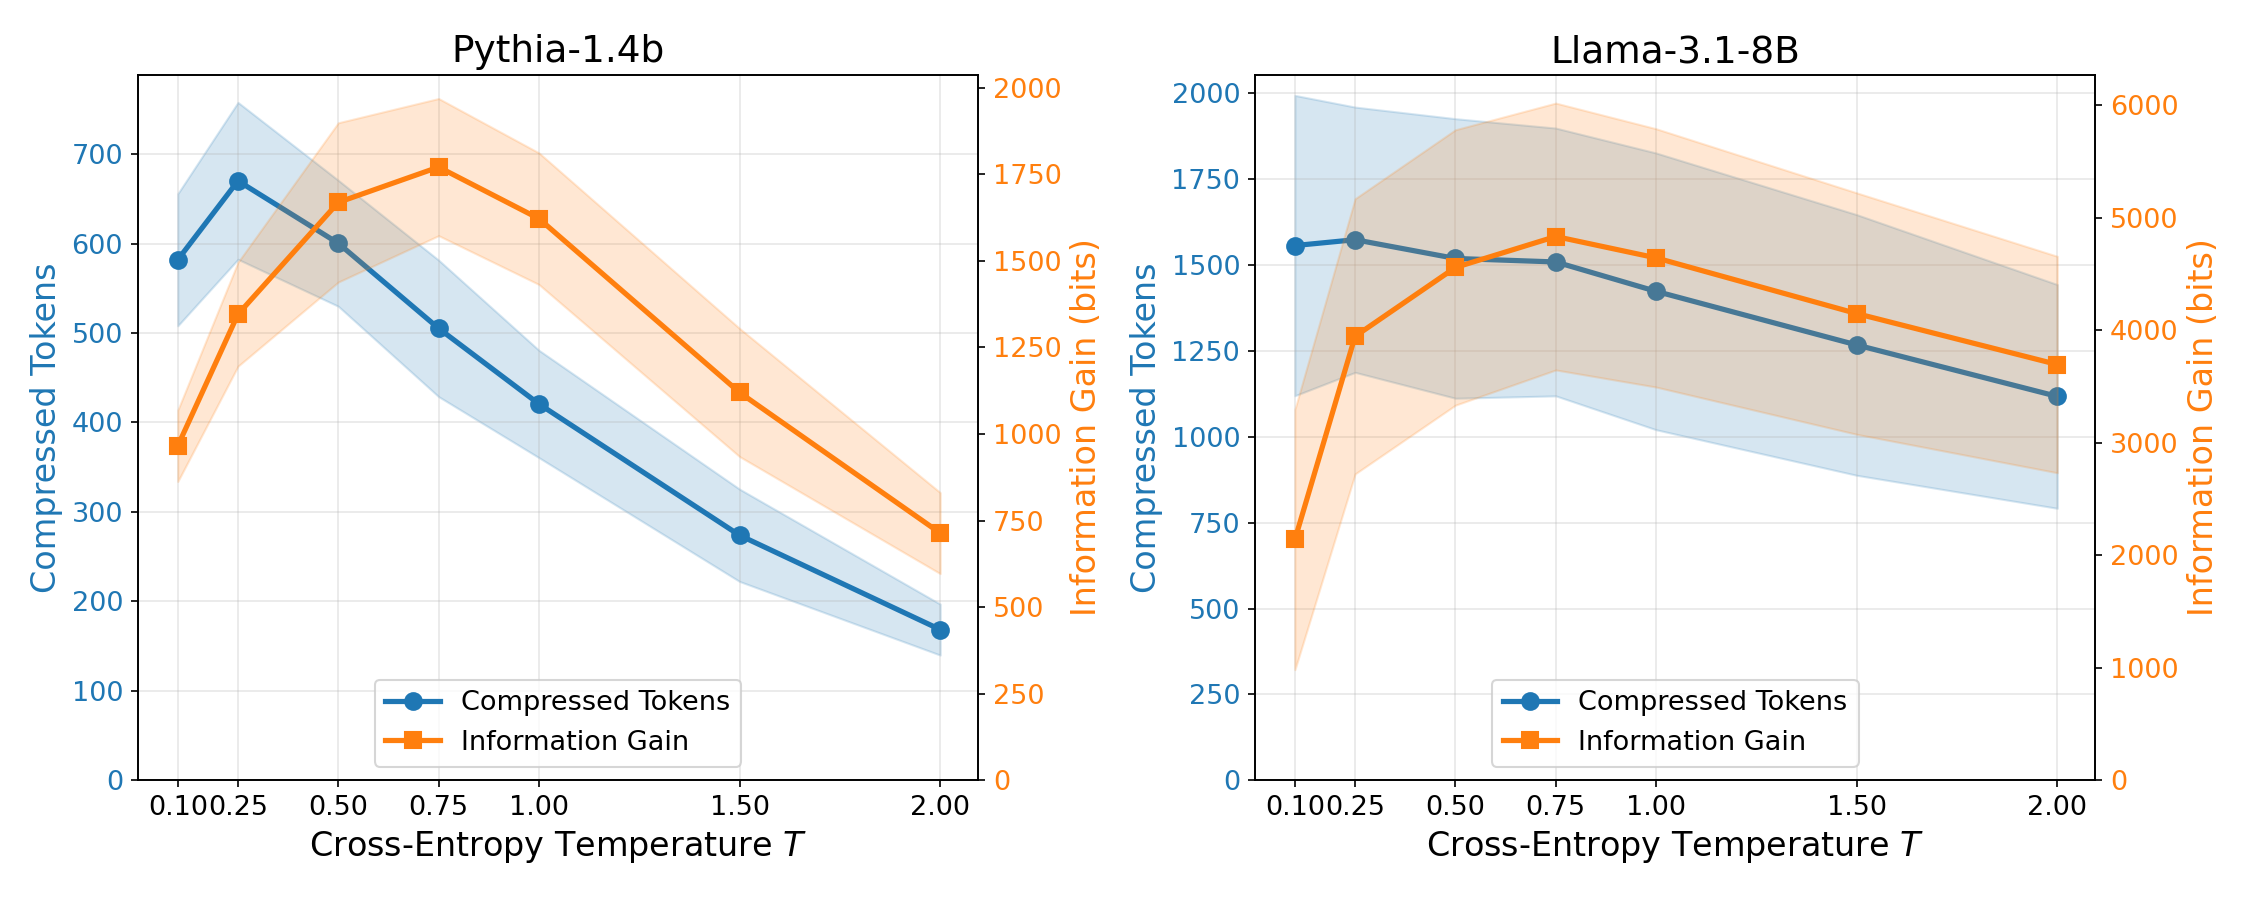
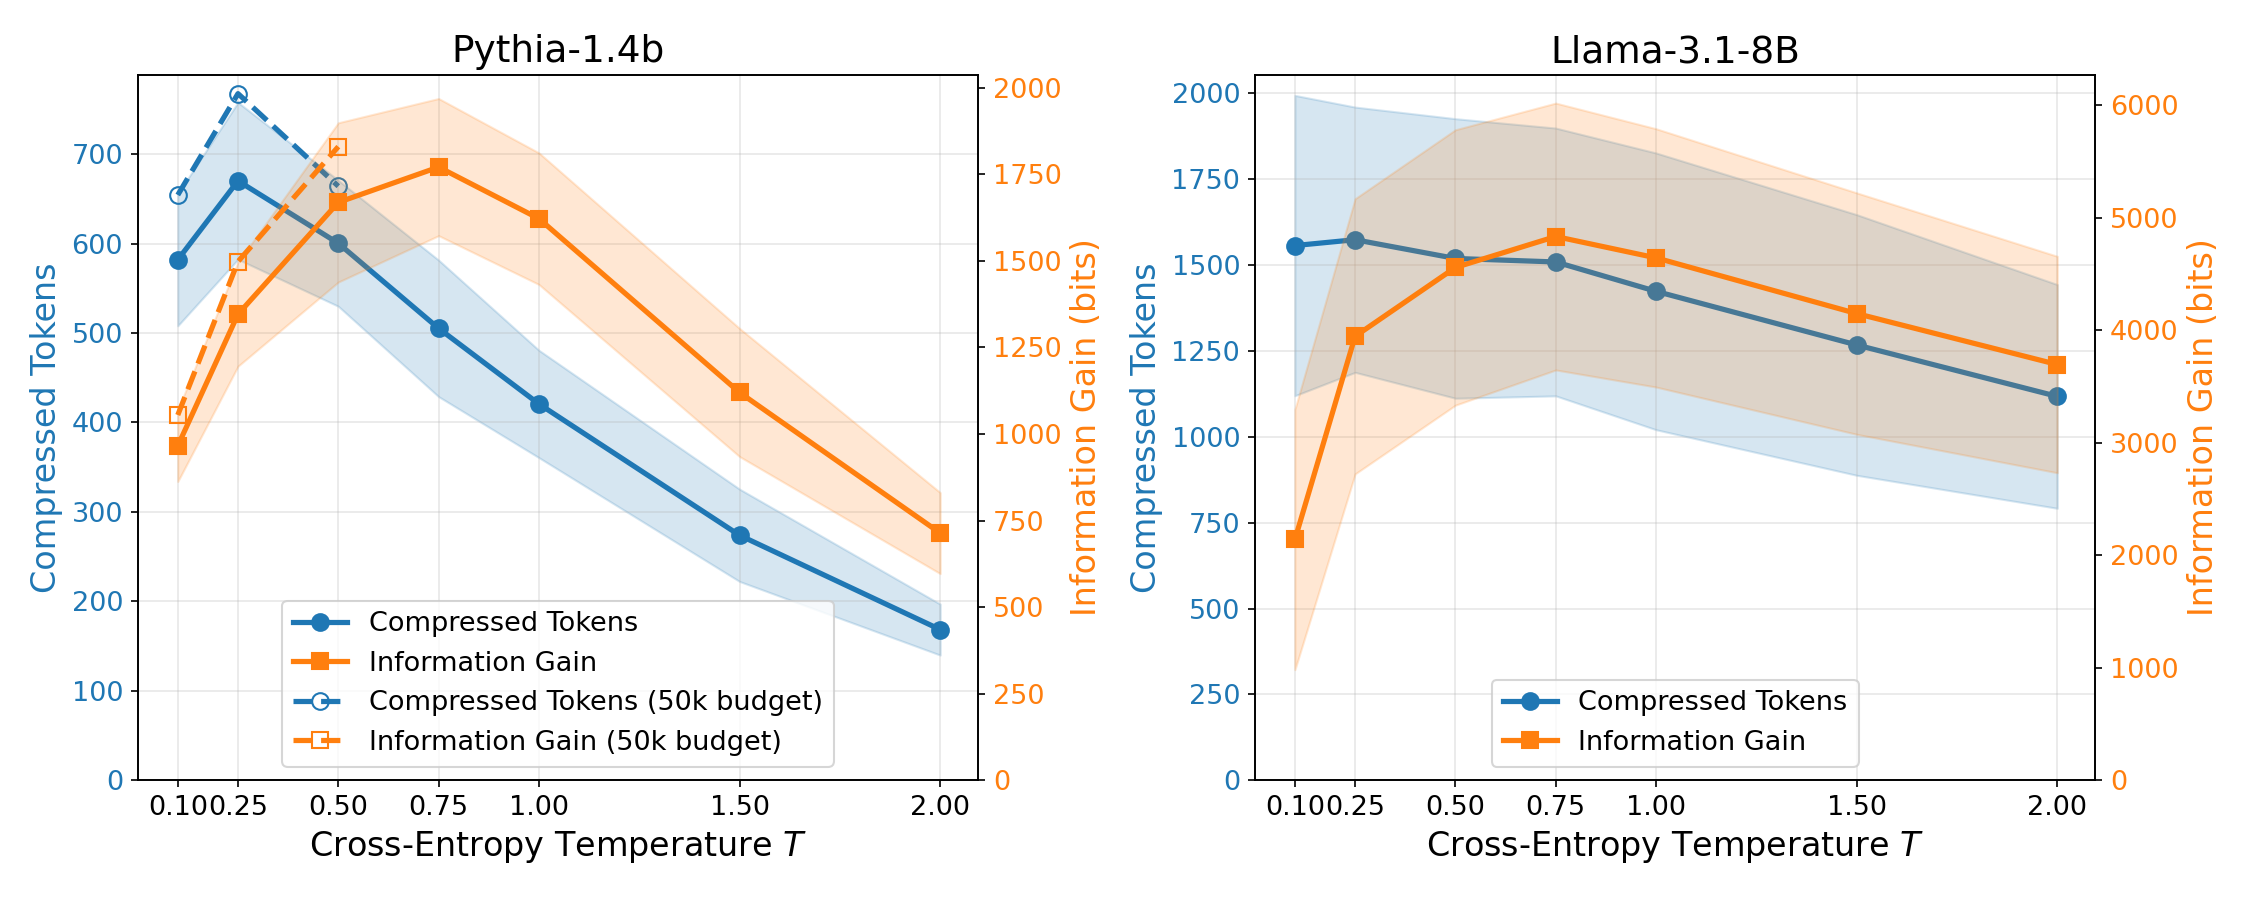
results: fold high-budget pythia low-T re-runs into CE-temperature appendix
Add the raised-step-cap (50k/sample, 5k/token) raw-arm pythia-1.4b re-runs at
T in {0.1,0.25,0.5} as separate 'raw 50k' rows next to the default-budget rows in
tab:progressive_temperature and tab:temperature_logit_stats, and overlay them as a
dashed open-marker series on the CE-temperature figure (pythia panel). Generators:
progressive.py + temperature_logit_stats.py gain a HIGHCAP row set; the logit-stats
compute() gets an --only-missing merge mode so only the 3 new rows are recomputed on
GPU (existing 26, incl. Llama-8B, stay byte-identical). Figure parser handles the new
arm and overlays it.

Findings (now in the prose/captions): the default cold runs were budget-bound; at 5x
budget pythia crams more tokens (654/768/664 vs 582/670/600) along longer, higher-dim
paths, but the inverted-U still peaks at T=0.25 and the two coldest runs STILL nearly
exhaust the raised cap (45.7k/48.3k of 50k steps), while logit geometry (margin, top-1)
is unchanged. Appendix prose, both table captions, and the figure caption updated.
Paper builds (37pp) and lints clean.

diff --git a/scripts/habr/build_temperature_figures.py b/scripts/habr/build_temperature_figures.py
@@ -43,7 +43,7 @@ _CYCLE = plt.rcParams["axes.prop_cycle"].by_key().get("color", ["C0", "C1"])
 C_TOK = _CYCLE[0]  # compressed tokens (left axis)
 C_IG = _CYCLE[1]  # information gain (right axis)
 
-ROW_RE = re.compile(r"^\s*(P1\.4b|L8b)\s+T=([0-9.]+)\s+(raw|t2|control)\s*&(.*?)\\\\")
+ROW_RE = re.compile(r"^\s*(P1\.4b|L8b)\s+T=([0-9.]+)\s+(raw 50k|raw|t2|control)\s*&(.*?)\\\\")
 
 
 def _first_float(cell: str) -> float:
@@ -58,9 +58,11 @@ def _std(cell: str) -> float:
     return float(m.group(1)) if m else 0.0
 
 
-def parse_table(path: Path) -> dict:
-    """Return data[prefix] = list of raw-arm dicts sorted by T (T=1 control merged in)."""
+def parse_table(path: Path) -> tuple[dict, dict]:
+    """Return (raw, hi): raw[prefix] = default-budget raw-arm dicts (T=1 control merged in), sorted by
+    T; hi[prefix] = raised-budget ``raw 50k`` re-run dicts (low-T only, overlaid as a second series)."""
     raw: dict[str, list[dict]] = {p: [] for p, _ in MODELS}
+    hi: dict[str, list[dict]] = {p: [] for p, _ in MODELS}
     for line in path.read_text(encoding="utf-8").splitlines():
         m = ROW_RE.match(line)
         if not m:
@@ -69,30 +71,43 @@ def parse_table(path: Path) -> dict:
         if arm == "t2":  # raw + control fully describe the plotted curve
             continue
         cells = rest.split("&")
-        raw[prefix].append(
-            {
-                "T": float(t_str),
-                "tokens": _first_float(cells[0]),
-                "tokens_std": _std(cells[0]),
-                "ig": _first_float(cells[1]),
-                "ig_std": _std(cells[1]),
-            }
-        )
-    for prefix in raw:
-        raw[prefix].sort(key=lambda r: r["T"])
-    return raw
+        rec = {
+            "T": float(t_str),
+            "tokens": _first_float(cells[0]),
+            "tokens_std": _std(cells[0]),
+            "ig": _first_float(cells[1]),
+            "ig_std": _std(cells[1]),
+        }
+        (hi if arm == "raw 50k" else raw)[prefix].append(rec)
+    for d in (raw, hi):
+        for prefix in d:
+            d[prefix].sort(key=lambda r: r["T"])
+    return raw, hi
 
 
-def _line_with_band(ax, ts, mean, std, color, marker, label):
-    """Mean line + shaded +/-1 std band, matching the paper figures' aesthetic."""
-    lo = [m - s for m, s in zip(mean, std)]
-    hi = [m + s for m, s in zip(mean, std)]
-    ax.fill_between(ts, lo, hi, alpha=0.18, color=color, zorder=1)
-    (line,) = ax.plot(ts, mean, marker=marker, linewidth=2.5, markersize=8, color=color, label=label, zorder=3)
+def _line_with_band(ax, ts, mean, std, color, marker, label, linestyle="-", fillstyle="full", band=True):
+    """Mean line + shaded +/-1 std band, matching the paper figures' aesthetic. The raised-budget
+    overlay passes linestyle='--', open markers, and band=False to stay visually distinct/uncluttered."""
+    if band:
+        lo = [m - s for m, s in zip(mean, std)]
+        hi = [m + s for m, s in zip(mean, std)]
+        ax.fill_between(ts, lo, hi, alpha=0.18, color=color, zorder=1)
+    (line,) = ax.plot(
+        ts,
+        mean,
+        marker=marker,
+        linestyle=linestyle,
+        linewidth=2.5,
+        markersize=8,
+        color=color,
+        label=label,
+        fillstyle=fillstyle,
+        zorder=3,
+    )
     return line
 
 
-def make_figure(data: dict, out: Path, dpi: int):
+def make_figure(raw: dict, hi: dict, out: Path, dpi: int):
     # Paper-style typography: larger fonts, default color cycle, clean grid.
     plt.rcParams.update(
         {
@@ -106,7 +121,7 @@ def make_figure(data: dict, out: Path, dpi: int):
     )
     fig, axes = plt.subplots(1, len(MODELS), figsize=(15, 6))
     for ax, (prefix, name) in zip(axes, MODELS):
-        rows = data[prefix]
+        rows = raw[prefix]
         ts = [r["T"] for r in rows]
 
         # Left axis: compressed tokens (reversed-U).
@@ -128,8 +143,40 @@ def make_figure(data: dict, out: Path, dpi: int):
         axr.tick_params(axis="y", labelcolor=C_IG)
         axr.set_ylim(bottom=0)
 
+        # Raised-budget (50k-step) low-T re-run overlay, where present (pythia). Dashed + open markers,
+        # no band, so it reads as a distinct series against the default-budget curve.
+        handles = [l1, l2]
+        hrows = hi.get(prefix, [])
+        if hrows:
+            hts = [r["T"] for r in hrows]
+            l3 = _line_with_band(
+                ax,
+                hts,
+                [r["tokens"] for r in hrows],
+                [r["tokens_std"] for r in hrows],
+                C_TOK,
+                "o",
+                "Compressed Tokens (50k budget)",
+                linestyle="--",
+                fillstyle="none",
+                band=False,
+            )
+            l4 = _line_with_band(
+                axr,
+                hts,
+                [r["ig"] for r in hrows],
+                [r["ig_std"] for r in hrows],
+                C_IG,
+                "s",
+                "Information Gain (50k budget)",
+                linestyle="--",
+                fillstyle="none",
+                band=False,
+            )
+            handles += [l3, l4]
+
         ax.set_title(name)
-        ax.legend(handles=[l1, l2], loc="lower center")
+        ax.legend(handles=handles, loc="lower center")
 
     fig.tight_layout()
     out.parent.mkdir(parents=True, exist_ok=True)
@@ -144,9 +191,9 @@ def main() -> int:
     ap.add_argument("--dpi", type=int, default=150)
     args = ap.parse_args()
 
-    data = parse_table(args.table)
-    make_figure(data, HABR_PNG, dpi=args.dpi)
-    make_figure(data, PAPER_PDF, dpi=args.dpi)
+    raw, hi = parse_table(args.table)
+    make_figure(raw, hi, HABR_PNG, dpi=args.dpi)
+    make_figure(raw, hi, PAPER_PDF, dpi=args.dpi)
     return 0
 
 

diff --git a/paper/tables/progressive_temperature.tex b/paper/tables/progressive_temperature.tex
@@ -1,46 +1,49 @@
 % paper-lint: n_samples=50
 \begin{tabular}{lllll}
 \toprule
- Model               & Compressed Tokens           & Information Gain         & Trajectory Length        & PCA 99\%                    \\
+ Model                & Compressed Tokens           & Information Gain         & Trajectory Length         & PCA 99\%                    \\
 \midrule
- P1.4b T=0.1 raw     & 581.9 {\small $\pm$ 73.8}   & 966 {\small $\pm$ 103}   & 9792 {\small $\pm$ 727}  & 85.5 {\small $\pm$ 7.5}    \\
- P1.4b T=0.1 t2      & 563.8 {\small $\pm$ 72.1}   & 945 {\small $\pm$ 147}   & 9627 {\small $\pm$ 867}  & 85.16 {\small $\pm$ 9.74}  \\
+ P1.4b T=0.1 raw      & 581.9 {\small $\pm$ 73.8}   & 966 {\small $\pm$ 103}   & 9792 {\small $\pm$ 727}   & 85.5 {\small $\pm$ 7.5}    \\
+ P1.4b T=0.1 raw 50k  & 654.3 {\small $\pm$ 120.5}  & 1055 {\small $\pm$ 251}  & 13458 {\small $\pm$ 1764} & 123.14 {\small $\pm$ 18}   \\
+ P1.4b T=0.1 t2       & 563.8 {\small $\pm$ 72.1}   & 945 {\small $\pm$ 147}   & 9627 {\small $\pm$ 867}   & 85.16 {\small $\pm$ 9.74}  \\
  \midrule
- P1.4b T=0.25 raw    & 670.1 {\small $\pm$ 87.7}   & 1346 {\small $\pm$ 150}  & 9017 {\small $\pm$ 818}  & 69.8 {\small $\pm$ 5.94}   \\
- P1.4b T=0.25 t2     & 644.8 {\small $\pm$ 86.8}   & 1292 {\small $\pm$ 150}  & 8814 {\small $\pm$ 917}  & 68.12 {\small $\pm$ 6.03}  \\
+ P1.4b T=0.25 raw     & 670.1 {\small $\pm$ 87.7}   & 1346 {\small $\pm$ 150}  & 9017 {\small $\pm$ 818}   & 69.8 {\small $\pm$ 5.94}   \\
+ P1.4b T=0.25 raw 50k & 767.6 {\small $\pm$ 98.5}   & 1498 {\small $\pm$ 166}  & 11702 {\small $\pm$ 1224} & 93.46 {\small $\pm$ 14.1}  \\
+ P1.4b T=0.25 t2      & 644.8 {\small $\pm$ 86.8}   & 1292 {\small $\pm$ 150}  & 8814 {\small $\pm$ 917}   & 68.12 {\small $\pm$ 6.03}  \\
  \midrule
- P1.4b T=0.5 raw     & 600.3 {\small $\pm$ 70.4}   & 1669 {\small $\pm$ 230}  & 7595 {\small $\pm$ 723}  & 56.88 {\small $\pm$ 3.93}  \\
- P1.4b T=0.5 t2      & 621.2 {\small $\pm$ 72.8}   & 1742 {\small $\pm$ 175}  & 7688 {\small $\pm$ 801}  & 57.5 {\small $\pm$ 3.31}   \\
+ P1.4b T=0.5 raw      & 600.3 {\small $\pm$ 70.4}   & 1669 {\small $\pm$ 230}  & 7595 {\small $\pm$ 723}   & 56.88 {\small $\pm$ 3.93}  \\
+ P1.4b T=0.5 raw 50k  & 664.1 {\small $\pm$ 87.2}   & 1830 {\small $\pm$ 309}  & 9202 {\small $\pm$ 960}   & 69.44 {\small $\pm$ 7.48}  \\
+ P1.4b T=0.5 t2       & 621.2 {\small $\pm$ 72.8}   & 1742 {\small $\pm$ 175}  & 7688 {\small $\pm$ 801}   & 57.5 {\small $\pm$ 3.31}   \\
  \midrule
- P1.4b T=0.75 raw    & 505.2 {\small $\pm$ 76.3}   & 1771 {\small $\pm$ 198}  & 6363 {\small $\pm$ 617}  & 49.28 {\small $\pm$ 3.82}  \\
- P1.4b T=0.75 t2     & 497.4 {\small $\pm$ 68}     & 1708 {\small $\pm$ 236}  & 6349 {\small $\pm$ 545}  & 48.92 {\small $\pm$ 3.09}  \\
+ P1.4b T=0.75 raw     & 505.2 {\small $\pm$ 76.3}   & 1771 {\small $\pm$ 198}  & 6363 {\small $\pm$ 617}   & 49.28 {\small $\pm$ 3.82}  \\
+ P1.4b T=0.75 t2      & 497.4 {\small $\pm$ 68}     & 1708 {\small $\pm$ 236}  & 6349 {\small $\pm$ 545}   & 48.92 {\small $\pm$ 3.09}  \\
  \midrule
- P1.4b T=1.0 control & 420.7 {\small $\pm$ 60}     & 1622 {\small $\pm$ 190}  & 5449 {\small $\pm$ 572}  & 44.2 {\small $\pm$ 3.24}   \\
+ P1.4b T=1.0 control  & 420.7 {\small $\pm$ 60}     & 1622 {\small $\pm$ 190}  & 5449 {\small $\pm$ 572}   & 44.2 {\small $\pm$ 3.24}   \\
  \midrule
- P1.4b T=1.5 raw     & 273.9 {\small $\pm$ 51.6}   & 1120 {\small $\pm$ 185}  & 3598 {\small $\pm$ 521}  & 35.42 {\small $\pm$ 2.98}  \\
- P1.4b T=1.5 t2      & 269.7 {\small $\pm$ 52.4}   & 1107 {\small $\pm$ 179}  & 3556 {\small $\pm$ 530}  & 35.68 {\small $\pm$ 3.09}  \\
+ P1.4b T=1.5 raw      & 273.9 {\small $\pm$ 51.6}   & 1120 {\small $\pm$ 185}  & 3598 {\small $\pm$ 521}   & 35.42 {\small $\pm$ 2.98}  \\
+ P1.4b T=1.5 t2       & 269.7 {\small $\pm$ 52.4}   & 1107 {\small $\pm$ 179}  & 3556 {\small $\pm$ 530}   & 35.68 {\small $\pm$ 3.09}  \\
  \midrule
- P1.4b T=2.0 raw     & 168.5 {\small $\pm$ 28.5}   & 714 {\small $\pm$ 117}   & 2491 {\small $\pm$ 334}  & 29.58 {\small $\pm$ 3.47}  \\
- P1.4b T=2.0 t2      & 173.6 {\small $\pm$ 33.6}   & 727 {\small $\pm$ 113}   & 2551 {\small $\pm$ 380}  & 29.86 {\small $\pm$ 3.63}  \\
+ P1.4b T=2.0 raw      & 168.5 {\small $\pm$ 28.5}   & 714 {\small $\pm$ 117}   & 2491 {\small $\pm$ 334}   & 29.58 {\small $\pm$ 3.47}  \\
+ P1.4b T=2.0 t2       & 173.6 {\small $\pm$ 33.6}   & 727 {\small $\pm$ 113}   & 2551 {\small $\pm$ 380}   & 29.86 {\small $\pm$ 3.63}  \\
  \midrule
- L8b T=0.1 raw       & 1556.8 {\small $\pm$ 437.1} & 2141 {\small $\pm$ 1157} & 6395 {\small $\pm$ 1327} & 79.52 {\small $\pm$ 8.04}  \\
- L8b T=0.1 t2        & 1522.9 {\small $\pm$ 476.2} & 1894 {\small $\pm$ 1360} & 6226 {\small $\pm$ 1382} & 78.98 {\small $\pm$ 9.35}  \\
+ L8b T=0.1 raw        & 1556.8 {\small $\pm$ 437.1} & 2141 {\small $\pm$ 1157} & 6395 {\small $\pm$ 1327}  & 79.52 {\small $\pm$ 8.04}  \\
+ L8b T=0.1 t2         & 1522.9 {\small $\pm$ 476.2} & 1894 {\small $\pm$ 1360} & 6226 {\small $\pm$ 1382}  & 78.98 {\small $\pm$ 9.35}  \\
  \midrule
- L8b T=0.25 raw      & 1573.8 {\small $\pm$ 386.1} & 3947 {\small $\pm$ 1223} & 6043 {\small $\pm$ 1092} & 77.2 {\small $\pm$ 8.25}   \\
- L8b T=0.25 t2       & 1567.7 {\small $\pm$ 386.1} & 3956 {\small $\pm$ 1228} & 6038 {\small $\pm$ 994}  & 75.98 {\small $\pm$ 7.15}  \\
+ L8b T=0.25 raw       & 1573.8 {\small $\pm$ 386.1} & 3947 {\small $\pm$ 1223} & 6043 {\small $\pm$ 1092}  & 77.2 {\small $\pm$ 8.25}   \\
+ L8b T=0.25 t2        & 1567.7 {\small $\pm$ 386.1} & 3956 {\small $\pm$ 1228} & 6038 {\small $\pm$ 994}   & 75.98 {\small $\pm$ 7.15}  \\
  \midrule
- L8b T=0.5 raw       & 1519.2 {\small $\pm$ 406.9} & 4559 {\small $\pm$ 1224} & 5546 {\small $\pm$ 921}  & 76.44 {\small $\pm$ 7.89}  \\
- L8b T=0.5 t2        & 1532.6 {\small $\pm$ 441.9} & 4607 {\small $\pm$ 1289} & 5761 {\small $\pm$ 1064} & 75.84 {\small $\pm$ 7.86}  \\
+ L8b T=0.5 raw        & 1519.2 {\small $\pm$ 406.9} & 4559 {\small $\pm$ 1224} & 5546 {\small $\pm$ 921}   & 76.44 {\small $\pm$ 7.89}  \\
+ L8b T=0.5 t2         & 1532.6 {\small $\pm$ 441.9} & 4607 {\small $\pm$ 1289} & 5761 {\small $\pm$ 1064}  & 75.84 {\small $\pm$ 7.86}  \\
  \midrule
- L8b T=0.75 raw      & 1509 {\small $\pm$ 389.8}   & 4834 {\small $\pm$ 1186} & 5597 {\small $\pm$ 884}  & 75.58 {\small $\pm$ 8.87}  \\
- L8b T=0.75 t2       & 1551.6 {\small $\pm$ 435.1} & 4948 {\small $\pm$ 1215} & 5717 {\small $\pm$ 978}  & 74.8 {\small $\pm$ 7.68}   \\
+ L8b T=0.75 raw       & 1509 {\small $\pm$ 389.8}   & 4834 {\small $\pm$ 1186} & 5597 {\small $\pm$ 884}   & 75.58 {\small $\pm$ 8.87}  \\
+ L8b T=0.75 t2        & 1551.6 {\small $\pm$ 435.1} & 4948 {\small $\pm$ 1215} & 5717 {\small $\pm$ 978}   & 74.8 {\small $\pm$ 7.68}   \\
  \midrule
- L8b T=1.0 control   & 1423.5 {\small $\pm$ 402.8} & 4644 {\small $\pm$ 1148} & 5308 {\small $\pm$ 891}  & 74.58 {\small $\pm$ 9.47}  \\
+ L8b T=1.0 control    & 1423.5 {\small $\pm$ 402.8} & 4644 {\small $\pm$ 1148} & 5308 {\small $\pm$ 891}   & 74.58 {\small $\pm$ 9.47}  \\
  \midrule
- L8b T=1.5 raw       & 1267.4 {\small $\pm$ 379.4} & 4149 {\small $\pm$ 1073} & 4856 {\small $\pm$ 969}  & 73.1 {\small $\pm$ 9.7}    \\
- L8b T=1.5 t2        & 1257.8 {\small $\pm$ 357.2} & 4144 {\small $\pm$ 1063} & 4859 {\small $\pm$ 921}  & 73.98 {\small $\pm$ 10.18} \\
+ L8b T=1.5 raw        & 1267.4 {\small $\pm$ 379.4} & 4149 {\small $\pm$ 1073} & 4856 {\small $\pm$ 969}   & 73.1 {\small $\pm$ 9.7}    \\
+ L8b T=1.5 t2         & 1257.8 {\small $\pm$ 357.2} & 4144 {\small $\pm$ 1063} & 4859 {\small $\pm$ 921}   & 73.98 {\small $\pm$ 10.18} \\
  \midrule
- L8b T=2.0 raw       & 1117.6 {\small $\pm$ 325.7} & 3696 {\small $\pm$ 962}  & 4498 {\small $\pm$ 832}  & 71.34 {\small $\pm$ 9.16}  \\
- L8b T=2.0 t2        & 1118.1 {\small $\pm$ 322.8} & 3700 {\small $\pm$ 966}  & 4541 {\small $\pm$ 812}  & 72.02 {\small $\pm$ 8.33}  \\
+ L8b T=2.0 raw        & 1117.6 {\small $\pm$ 325.7} & 3696 {\small $\pm$ 962}  & 4498 {\small $\pm$ 832}   & 71.34 {\small $\pm$ 9.16}  \\
+ L8b T=2.0 t2         & 1118.1 {\small $\pm$ 322.8} & 3700 {\small $\pm$ 966}  & 4541 {\small $\pm$ 812}   & 72.02 {\small $\pm$ 8.33}  \\
 \bottomrule
 \end{tabular}

diff --git a/scripts/paper/tables/temperature_logit_stats.py b/scripts/paper/tables/temperature_logit_stats.py
@@ -39,6 +39,12 @@ MODELS = [
 ]
 N_SAMPLES_STAMP = 50
 
+# Raised-step-cap (50k/sample, 5k/token) low-T re-runs, raw arm only; added as an extra "raw 50k"
+# row next to the default raw arm for the same temperature (mirrors tab:progressive_temperature).
+# Only pythia-1.4b low-T has landed so far (Llama-3.1-8B high-budget runs pending).
+HIGHCAP_SUFFIX = "_maxsteps_s50000_t5000"
+HIGHCAP = {("pythia-1.4b", "0.1"), ("pythia-1.4b", "0.25"), ("pythia-1.4b", "0.5")}
+
 
 def run_rows():
     """Ordered (label, arm, T, dir_short, lr, checkpoint, prefix, dir) mirroring the main table."""
@@ -46,6 +52,8 @@ def run_rows():
     for dir_short, lr, ckpt, prefix in MODELS:
         for T in TEMPS:
             arms = [("", "control")] if T == "1.0" else [("", "raw"), ("_comp_t2", "t2")]
+            if (dir_short, T) in HIGHCAP:  # insert the raised-budget raw re-run right after raw
+                arms = [("", "raw"), (HIGHCAP_SUFFIX, "raw 50k"), ("_comp_t2", "t2")]
             for suf, arm in arms:
                 d = f"{EXP}/sl_4096_{dir_short}_ds_pg19_1k_limit_50_lr_{lr}_temp_{T}{suf}/progressive_prefixes"
                 rows.append((f"{prefix} T={T} {arm}", arm, T, dir_short, lr, ckpt, prefix, d))
@@ -55,7 +63,7 @@ def run_rows():
 # --------------------------------------------------------------------------- #
 # Compute (GPU): raw margin + raw top-1 (final stage) and total steps per run.
 # --------------------------------------------------------------------------- #
-def compute():
+def compute(only_missing=False):
     import torch
     from datasets import load_from_disk
     from transformers import AutoModelForCausalLM, AutoTokenizer
@@ -93,12 +101,20 @@ def compute():
         return margin, top1, top1_logp
 
     device = torch.device("cuda")
+    # only_missing: merge into the committed cache and compute solely the labels not already present
+    # (so a partial re-run -- e.g. adding the high-budget rows -- leaves every existing value, incl.
+    # the expensive Llama-8B rows, byte-identical instead of recomputing with fresh bf16 noise).
     cache = {}
+    if only_missing and os.path.exists(CACHE):
+        with open(CACHE) as f:
+            cache = json.load(f)
     by_ckpt = {}
     for row in run_rows():
         by_ckpt.setdefault(row[5], []).append(row)
     for ckpt, rows in by_ckpt.items():
         rows = [r for r in rows if os.path.isdir(r[-1])]
+        if only_missing:
+            rows = [r for r in rows if r[0] not in cache]
         if not rows:
             continue
         print(f"\n=== {ckpt} ({len(rows)} runs) ===", flush=True)
@@ -153,7 +169,7 @@ def compute():
 # Render (no GPU): read cache, emit z/T columns as a LaTeX tabular.
 # --------------------------------------------------------------------------- #
 def _arm_tex(arm):
-    return {"raw": "raw", "t2": "$t^2$", "control": "control"}.get(arm, arm)
+    return {"raw": "raw", "raw 50k": "raw 50k", "t2": "$t^2$", "control": "control"}.get(arm, arm)
 
 
 def render():
@@ -199,10 +215,15 @@ def render():
 def main():
     ap = argparse.ArgumentParser(description=__doc__)
     ap.add_argument("--compute", action="store_true", help="Recompute the cache (needs GPU + base models).")
+    ap.add_argument(
+        "--only-missing",
+        action="store_true",
+        help="With --compute: merge into the existing cache, computing only labels not already present.",
+    )
     ap.add_argument("--save", action="store_true", help="Render the .tex from the cache.")
     args = ap.parse_args()
     if args.compute:
-        compute()
+        compute(only_missing=args.only_missing)
     if args.save or not args.compute:
         render()
 

diff --git a/scripts/paper/tables/progressive.py b/scripts/paper/tables/progressive.py
@@ -88,6 +88,17 @@ _CE_TEMP_MODELS = [
 ]
 _CE_TEMPS = ["0.1", "0.25", "0.5", "0.75", "1.0", "1.5", "2.0"]
 
+# Raised-step-cap (50k/sample, 5k/token) low-T re-runs, raw arm only. The default-budget low-T runs
+# saturated the 10k/1k caps (budget-bound), so these are added as EXTRA "raw 50k" rows next to the
+# default raw row for the same temperature -- both budgets shown side by side. (model_short, temp) ->
+# out_dir suffix. Only pythia-1.4b low-T has landed so far (Llama-3.1-8B high-budget runs pending).
+_CE_TEMP_HIGHCAP_SUFFIX = "_maxsteps_s50000_t5000"
+_CE_TEMP_HIGHCAP = {
+    ("pythia-1.4b", "0.1"),
+    ("pythia-1.4b", "0.25"),
+    ("pythia-1.4b", "0.5"),
+}
+
 
 def _build_ce_temperature_rows() -> Tuple[List[CheckpointEntry], List[str]]:
     checkpoints: List[CheckpointEntry] = []
@@ -105,6 +116,10 @@ def _build_ce_temperature_rows() -> Tuple[List[CheckpointEntry], List[str]]:
             else:
                 checkpoints.append(f"{base}/progressive_prefixes")
                 names.append(f"{prefix} T={temp} raw")
+                # Raised-budget raw re-run for this temperature (if it exists), shown next to raw.
+                if (model_short, temp) in _CE_TEMP_HIGHCAP:
+                    checkpoints.append(f"{base}{_CE_TEMP_HIGHCAP_SUFFIX}/progressive_prefixes")
+                    names.append(f"{prefix} T={temp} raw 50k")
                 checkpoints.append(f"{base}_comp_t2/progressive_prefixes")
                 names.append(f"{prefix} T={temp} t2")
     return checkpoints, names

diff --git a/paper/appendix.tex b/paper/appendix.tex
@@ -140,17 +140,17 @@ The progressive-cramming reconstruction loss is a next-token cross-entropy. Here
 \begin{figure*}[t]
     \centering
     \includegraphics[width=0.92\textwidth]{ce_temperature_tokens_ig.pdf}
-    \caption{Cross-entropy temperature slides each run along a quantity--density frontier. For pythia-1.4b (left) and Llama-3.1-8B (right), compressed tokens (left axis, blue) follow an inverted-U peaking at a \emph{cold} $T{=}0.25$, whereas information gain (right axis, red) peaks at a \emph{warmer} $T{\approx}0.75$: the number of crammed tokens and the information the embedding carries are maximized at different temperatures. Curves show the raw loss $\mathrm{CE}(\mathbf{z}/T)$ with std error bars (the dotted line marks the $T{=}1$ plain-CE control); the $T^2$-compensated arm agrees to within noise (Table~\ref{tab:progressive_temperature}).}
+    \caption{Cross-entropy temperature slides each run along a quantity--density frontier. For pythia-1.4b (left) and Llama-3.1-8B (right), compressed tokens (left axis, blue) follow an inverted-U peaking at a \emph{cold} $T{=}0.25$, whereas information gain (right axis, red) peaks at a \emph{warmer} $T{\approx}0.75$: the number of crammed tokens and the information the embedding carries are maximized at different temperatures. Solid curves show the raw loss $\mathrm{CE}(\mathbf{z}/T)$ at the default step budget with a shaded $\pm1$ std band (the dotted line marks the $T{=}1$ plain-CE control); the $T^2$-compensated arm agrees to within noise (Table~\ref{tab:progressive_temperature}). Dashed curves with open markers (pythia-1.4b only) overlay a raised-budget re-run of the three cold temperatures at a $5\times$ larger step cap (50{,}000 per sample, 5{,}000 per token): the default cold runs are budget-bound, so with more budget they cram more tokens (and slightly more information), yet the inverted-U peak stays at $T{=}0.25$ and the quantity--density frontier is unchanged.}
     \label{fig:ce_temperature}
 \end{figure*}
 
-Because the raw loss $\mathrm{CE}(\mathbf{z}/T)$ has a gradient that scales as ${\sim}1/T$, at a fixed learning rate temperature is entangled with the effective step size. We therefore run each temperature under two gradient conventions: the \emph{raw} form above, and a \emph{$T^2$-compensated} form (the Hinton distillation convention) $T^2\,\mathrm{CE}(\mathbf{z}/T)$, which holds the gradient magnitude approximately constant across $T$ and thus isolates the distribution-shape effect from the step-size effect. We sweep $T \in \{0.1, 0.25, 0.5, 0.75, 1.0, 1.5, 2.0\}$ on two model families' baseline cross-entropy configurations --- pythia-1.4b (at $\mathrm{lr}=0.5$) and Llama-3.1-8B (at $\mathrm{lr}=0.1$) --- each using the same PG19 sample set and optimization budget as its main run; $T=1.0$ is identical for both conventions and serves as the per-model control (it also reproduces that model's plain-CE baseline). Table~\ref{tab:progressive_temperature} reports, for each model, temperature, and convention, the achieved compressed token count, the information gain of the compression embedding, the trajectory length, and the number of principal components explaining 99\% of trajectory variance (PCA 99\%).
+Because the raw loss $\mathrm{CE}(\mathbf{z}/T)$ has a gradient that scales as ${\sim}1/T$, at a fixed learning rate temperature is entangled with the effective step size. We therefore run each temperature under two gradient conventions: the \emph{raw} form above, and a \emph{$T^2$-compensated} form (the Hinton distillation convention) $T^2\,\mathrm{CE}(\mathbf{z}/T)$, which holds the gradient magnitude approximately constant across $T$ and thus isolates the distribution-shape effect from the step-size effect. We sweep $T \in \{0.1, 0.25, 0.5, 0.75, 1.0, 1.5, 2.0\}$ on two model families' baseline cross-entropy configurations --- pythia-1.4b (at $\mathrm{lr}=0.5$) and Llama-3.1-8B (at $\mathrm{lr}=0.1$) --- each using the same PG19 sample set and optimization budget as its main run; $T=1.0$ is identical for both conventions and serves as the per-model control (it also reproduces that model's plain-CE baseline). Table~\ref{tab:progressive_temperature} reports, for each model, temperature, and convention, the achieved compressed token count, the information gain of the compression embedding, the trajectory length, and the number of principal components explaining 99\% of trajectory variance (PCA 99\%). Because the coldest runs saturate this fixed step budget (see the reconstruction-logit analysis below), we additionally re-run pythia-1.4b at $T\in\{0.1,0.25,0.5\}$ under the raw convention with a $5\times$ raised budget (50{,}000 optimization steps per sample, 5{,}000 per newly-added token); these appear as separate \emph{raw 50k} rows next to their default-budget counterparts.
 
-Three trends stand out (Figure~\ref{fig:ce_temperature}), and the two gradient conventions (raw and $T^2$) agree throughout to within noise --- once more isolating the distribution-shape effect from the effective step size. \textbf{(i) Compressed tokens} follow an inverted-U in temperature: a mild sharpening to $T{=}0.25$ crams the \emph{most} tokens (pythia $670$, Llama $1574$), above which the count falls --- steeply for pythia (to $169$ at $T{=}2.0$, a ${\approx}4\times$ span) and gently for Llama ($1574 \to 1118$, ${\approx}1.4\times$). The $T{=}1$ controls reproduce the plain-CE baselines of Table~\ref{tab:progressive_modifications} ($420.7$ vs.\ $430.4$, and $1423.5$ vs.\ $1437.6$), as expected. \textbf{(ii) Information gain} peaks at a \emph{warmer} temperature than the token count --- near $T{=}0.75$ for both models (pythia $1771$, Llama $4834$ bits) --- and is \emph{lowest} at the coldest setting ($966$ and $2141$ bits at $T{=}0.1$) even though that setting crams the most tokens. Cold temperatures thus pack many tokens at low information density per token, so ``how many tokens are crammed'' and ``how much the embedding tells the model'' are maximized at different temperatures. \textbf{(iii)} Both the \emph{trajectory length} $L_{\text{traj}}$ (total L2 path length through embedding space) and its \emph{dimensionality} (PCA 99\%) shrink monotonically as $T$ rises (pythia $9792 \to 2491$ and $85 \to 30$; Llama $6395 \to 4498$ and $80 \to 71$): cold solutions are reached along longer, higher-dimensional optimization paths, warm ones along shorter, shallower paths. Taken together, temperature slides each run along a single quantity--density frontier --- cold: many tokens, low per-token information, long high-dimensional paths that exhaust the step budget; warm: fewer tokens, higher per-token information (peaking around $T{\approx}0.75$), short shallow paths --- the same axis the reconstructed-logit statistics trace below.
+Three trends stand out (Figure~\ref{fig:ce_temperature}), and the two gradient conventions (raw and $T^2$) agree throughout to within noise --- once more isolating the distribution-shape effect from the effective step size. \textbf{(i) Compressed tokens} follow an inverted-U in temperature: a mild sharpening to $T{=}0.25$ crams the \emph{most} tokens (pythia $670$, Llama $1574$), above which the count falls --- steeply for pythia (to $169$ at $T{=}2.0$, a ${\approx}4\times$ span) and gently for Llama ($1574 \to 1118$, ${\approx}1.4\times$). The $T{=}1$ controls reproduce the plain-CE baselines of Table~\ref{tab:progressive_modifications} ($420.7$ vs.\ $430.4$, and $1423.5$ vs.\ $1437.6$), as expected. \textbf{(ii) Information gain} peaks at a \emph{warmer} temperature than the token count --- near $T{=}0.75$ for both models (pythia $1771$, Llama $4834$ bits) --- and is \emph{lowest} at the coldest setting ($966$ and $2141$ bits at $T{=}0.1$) even though that setting crams the most tokens. Cold temperatures thus pack many tokens at low information density per token, so ``how many tokens are crammed'' and ``how much the embedding tells the model'' are maximized at different temperatures. \textbf{(iii)} Both the \emph{trajectory length} $L_{\text{traj}}$ (total L2 path length through embedding space) and its \emph{dimensionality} (PCA 99\%) shrink monotonically as $T$ rises (pythia $9792 \to 2491$ and $85 \to 30$; Llama $6395 \to 4498$ and $80 \to 71$): cold solutions are reached along longer, higher-dimensional optimization paths, warm ones along shorter, shallower paths. Taken together, temperature slides each run along a single quantity--density frontier --- cold: many tokens, low per-token information, long high-dimensional paths that exhaust the step budget; warm: fewer tokens, higher per-token information (peaking around $T{\approx}0.75$), short shallow paths --- the same axis the reconstructed-logit statistics trace below. \textbf{The cold end is budget-limited.} Because the default cold runs saturate the fixed per-token/per-sample step cap, we re-run pythia-1.4b at $T\in\{0.1,0.25,0.5\}$ with a $5\times$ larger budget (the \emph{raw 50k} rows). With more budget these cram more tokens ($654$, $768$, $664$, up from $582$, $670$, $600$) along correspondingly longer, higher-dimensional paths (e.g.\ $T{=}0.1$: $L_{\text{traj}}\,9792\to 13458$, PCA $85\to 123$) and gain modestly more information ($966\to 1055$, $1346\to 1498$, $1669\to 1830$ bits). The qualitative picture is nonetheless unchanged --- the inverted-U still peaks at $T{=}0.25$ ($768$ tokens), and the coldest setting still crams fewer than $T{=}0.25$ despite the extra budget --- and even at the raised cap the two coldest runs still nearly exhaust it ($45{,}700$ and $48{,}300$ of $50{,}000$ steps; only $T{=}0.5$ converges earlier, at $35{,}800$), so cold cramming stays budget-limited rather than fully converged.
 
 \begin{table*}[t]
     \centering
-    \caption{Cross-entropy temperature ablation on the baseline cross-entropy progressive-cramming config, two model panels: pythia-1.4b ($\mathrm{lr}=0.5$, prefix ``P1.4b'') and Llama-3.1-8B ($\mathrm{lr}=0.1$, prefix ``L8b''), on PG19. Each temperature $T$ is run under the raw loss $\mathrm{CE}(\mathbf{z}/T)$ and the $T^2$-compensated loss $T^2\,\mathrm{CE}(\mathbf{z}/T)$; $T=1.0$ is identical for both (a single control row per model, reproducing that model's plain-CE baseline). Convergence is argmax-based and hence temperature-invariant, so ``Compressed Tokens'' and ``Trajectory Length'' isolate temperature's effect on the optimization path. Columns match Table~\ref{tab:progressive_modifications}: achieved compressed token count, information gain (bits), trajectory length $L_{\text{traj}}$, and PCA 99\%.}
+    \caption{Cross-entropy temperature ablation on the baseline cross-entropy progressive-cramming config, two model panels: pythia-1.4b ($\mathrm{lr}=0.5$, prefix ``P1.4b'') and Llama-3.1-8B ($\mathrm{lr}=0.1$, prefix ``L8b''), on PG19. Each temperature $T$ is run under the raw loss $\mathrm{CE}(\mathbf{z}/T)$ and the $T^2$-compensated loss $T^2\,\mathrm{CE}(\mathbf{z}/T)$; $T=1.0$ is identical for both (a single control row per model, reproducing that model's plain-CE baseline). Convergence is argmax-based and hence temperature-invariant, so ``Compressed Tokens'' and ``Trajectory Length'' isolate temperature's effect on the optimization path. Columns match Table~\ref{tab:progressive_modifications}: achieved compressed token count, information gain (bits), trajectory length $L_{\text{traj}}$, and PCA 99\%. For pythia-1.4b's three coldest temperatures we additionally list a raised-budget raw re-run (\emph{raw 50k}: per-sample cap $50{,}000$, per-token $5{,}000$, vs.\ the default $10{,}000/1{,}000$) next to the default-budget rows, since those cold runs are budget-bound at the default caps.}
     \label{tab:progressive_temperature}
     \begin{small}
     \IfFileExists{tables/progressive_temperature.tex}{\input{tables/progressive_temperature}}{\emph{(Pending: the nine pythia-1.4b temperature runs are still completing; this table is auto-populated by \texttt{scripts/jobs/watch\_ce\_temperature.py} once every run's artifacts land.)}}
@@ -158,11 +158,11 @@ Three trends stand out (Figure~\ref{fig:ce_temperature}), and the two gradient c
 \vskip -0.1in
 \end{table*}
 
-\paragraph{Reconstruction logit geometry.} Temperature also leaves a clean signature on the reconstructed logits themselves. Table~\ref{tab:temperature_logit_stats} reports, over the tokens the converged \texttt{[mem]} embedding reconstructs at its final stage, the mean optimization steps per sample and two logit statistics expressed in the loss's own units $\mathbf{z}/T$: the true-token margin $(z_{\text{true}}-\max_{j\neq\text{true}} z_j)/T$ and the top-1 logit $(\max_j z_j)/T$. We normalize by $T$ because the raw reconstruction logits $\mathbf{z}$ (what decoding sees) scale as $\mathbf{z}\propto T$: the loss $\mathrm{CE}(\mathbf{z}/T)$ only saturates once $\mathbf{z}/T$ is well separated, so higher temperatures force proportionally larger raw logits. In these units the \emph{margin} is nearly flat for $T\gtrsim 0.5$ (pythia $3.6$--$4.6$; Llama $6.8$--$9.6$): its growth with temperature is almost entirely the $\mathbf{z}\propto T$ rescaling rather than a change in the converged solution, and the raw and $T^2$-compensated arms agree, so this is a loss-geometry effect and not a step-size one. The residual rise at the coldest $T$ is the argmax-convergence floor --- every crammed token must keep $z_{\text{true}}$ strictly largest regardless of $T$, so the margin cannot vanish as $T\to 0$. The top-1 logit behaves oppositely under $\mathbf{z}/T$: the absolute winning logit is nearly $T$-independent (raw ${\approx}\,13$--$25$ for pythia across the whole sweep), so dividing by $T$ inflates the \emph{unnormalized} top-1 $\mathbf{z}/T$ at small $T$ (pythia $130$ at $T{=}0.1$ down to $13$ at $T{=}2.0$). The \emph{normalized} top-1 (rightmost column) shows this inflation is a pedestal artifact, not extra confidence: the winner's log-probability $\log\mathrm{softmax}(\mathbf{z}/T)$ stays close to $0$ throughout, so the reconstruction is a near-deterministic argmax at every temperature. It sharpens only mildly with cold: for pythia the crammed token holds ${\approx}97\%$ of the mass at $T{=}0.1$ ($\log p{=}-0.03$) and still ${\approx}58\%$ at $T{=}2.0$ ($\log p{=}-0.55$), while for Llama-3.1-8B it holds essentially all of it ($\ge 97\%$, $\log p\in[-0.03,-0.01]$) across the entire sweep. Together these say temperature rescales the logit \emph{separation} while leaving both the absolute logit pedestal and the (already near-saturated) winner probability roughly fixed. Steps track the same axis: cold runs exhaust the per-sample budget (pythia near $10{,}000$ for $T\le 0.1$; Llama-3.1-8B near the cap throughout), hot runs stop sooner.
+\paragraph{Reconstruction logit geometry.} Temperature also leaves a clean signature on the reconstructed logits themselves. Table~\ref{tab:temperature_logit_stats} reports, over the tokens the converged \texttt{[mem]} embedding reconstructs at its final stage, the mean optimization steps per sample and two logit statistics expressed in the loss's own units $\mathbf{z}/T$: the true-token margin $(z_{\text{true}}-\max_{j\neq\text{true}} z_j)/T$ and the top-1 logit $(\max_j z_j)/T$. We normalize by $T$ because the raw reconstruction logits $\mathbf{z}$ (what decoding sees) scale as $\mathbf{z}\propto T$: the loss $\mathrm{CE}(\mathbf{z}/T)$ only saturates once $\mathbf{z}/T$ is well separated, so higher temperatures force proportionally larger raw logits. In these units the \emph{margin} is nearly flat for $T\gtrsim 0.5$ (pythia $3.6$--$4.6$; Llama $6.8$--$9.6$): its growth with temperature is almost entirely the $\mathbf{z}\propto T$ rescaling rather than a change in the converged solution, and the raw and $T^2$-compensated arms agree, so this is a loss-geometry effect and not a step-size one. The residual rise at the coldest $T$ is the argmax-convergence floor --- every crammed token must keep $z_{\text{true}}$ strictly largest regardless of $T$, so the margin cannot vanish as $T\to 0$. The top-1 logit behaves oppositely under $\mathbf{z}/T$: the absolute winning logit is nearly $T$-independent (raw ${\approx}\,13$--$25$ for pythia across the whole sweep), so dividing by $T$ inflates the \emph{unnormalized} top-1 $\mathbf{z}/T$ at small $T$ (pythia $130$ at $T{=}0.1$ down to $13$ at $T{=}2.0$). The \emph{normalized} top-1 (rightmost column) shows this inflation is a pedestal artifact, not extra confidence: the winner's log-probability $\log\mathrm{softmax}(\mathbf{z}/T)$ stays close to $0$ throughout, so the reconstruction is a near-deterministic argmax at every temperature. It sharpens only mildly with cold: for pythia the crammed token holds ${\approx}97\%$ of the mass at $T{=}0.1$ ($\log p{=}-0.03$) and still ${\approx}58\%$ at $T{=}2.0$ ($\log p{=}-0.55$), while for Llama-3.1-8B it holds essentially all of it ($\ge 97\%$, $\log p\in[-0.03,-0.01]$) across the entire sweep. Together these say temperature rescales the logit \emph{separation} while leaving both the absolute logit pedestal and the (already near-saturated) winner probability roughly fixed. Steps track the same axis: cold runs exhaust the per-sample budget (pythia near $10{,}000$ for $T\le 0.1$; Llama-3.1-8B near the cap throughout), hot runs stop sooner. The raised-budget \emph{raw 50k} re-runs confirm this is a genuine budget limit and not a converged stopping point: pythia's $T{=}0.1$ and $T{=}0.25$ still consume $45{,}700$ and $48{,}300$ of the $50{,}000$-step cap (only $T{=}0.5$ converges earlier, at $35{,}800$), while their margin and top-1 columns are essentially unchanged from the default budget ($z/T$ margins $12.2$, $6.2$, $4.6$; $\log p_{\top}\ge -0.12$) --- so the extra steps buy \emph{more crammed tokens}, not sharper per-token logits.
 
 \begin{table*}[t]
     \centering
-    \caption{Reconstruction logit geometry vs.\ CE temperature, in the loss's own units $\mathbf{z}/T$. For each run we average, over the tokens the converged \texttt{[mem]} embedding reconstructs at its final stage, the total optimization steps per sample (cumulative, capped at the $10{,}000$-step per-sample budget), the true-token margin $(z_{\text{true}}-\text{runner-up})/T$, and the top-1 logit in two forms: \emph{unnormalized} $(\max_j z_j)/T$ and \emph{normalized} $\log p_{\top}=\log\mathrm{softmax}(\mathbf{z}/T)_{\arg\max}=(\max_j z_j)/T-\log\sum_j e^{z_j/T}$ --- the winner's log-probability under the temperature softmax the loss actually uses ($\le 0$; $0$ = all mass on the winner). The two top-1 columns differ exactly by the mean log-partition $\log\sum_j e^{z_j/T}$. The raw logits $\mathbf{z}$ are the model outputs used at decode time; the $\mathbf{z}/T$ normalization removes the trivial $\mathbf{z}\propto T$ rescaling (\S\ref{app:ce_temperature}). Panels and row labels match Table~\ref{tab:progressive_temperature}; averages over 50 PG19 samples.}
+    \caption{Reconstruction logit geometry vs.\ CE temperature, in the loss's own units $\mathbf{z}/T$. For each run we average, over the tokens the converged \texttt{[mem]} embedding reconstructs at its final stage, the total optimization steps per sample (cumulative, capped at each run's per-sample budget --- $10{,}000$ by default, $50{,}000$ for the raised-budget \emph{raw 50k} re-runs), the true-token margin $(z_{\text{true}}-\text{runner-up})/T$, and the top-1 logit in two forms: \emph{unnormalized} $(\max_j z_j)/T$ and \emph{normalized} $\log p_{\top}=\log\mathrm{softmax}(\mathbf{z}/T)_{\arg\max}=(\max_j z_j)/T-\log\sum_j e^{z_j/T}$ --- the winner's log-probability under the temperature softmax the loss actually uses ($\le 0$; $0$ = all mass on the winner). The two top-1 columns differ exactly by the mean log-partition $\log\sum_j e^{z_j/T}$. The raw logits $\mathbf{z}$ are the model outputs used at decode time; the $\mathbf{z}/T$ normalization removes the trivial $\mathbf{z}\propto T$ rescaling (\S\ref{app:ce_temperature}). Panels and row labels match Table~\ref{tab:progressive_temperature}; averages over 50 PG19 samples.}
     \label{tab:temperature_logit_stats}
     \begin{small}
     \input{tables/temperature_logit_stats}

diff --git a/paper/tables/temperature_logit_stats.tex b/paper/tables/temperature_logit_stats.tex
@@ -5,12 +5,15 @@
  & & & & (unnorm.) & (norm.) \\
 \midrule
  P1.4b $T{=}0.1$ & raw & 10000 & 12.23 & 130.33 & -0.03 \\
+ P1.4b $T{=}0.1$ & raw 50k & 45713 & 12.23 & 129.97 & -0.04 \\
  P1.4b $T{=}0.1$ & $t^2$ & 10000 & 12.36 & 131.13 & -0.03 \\
 \addlinespace[2pt]
  P1.4b $T{=}0.25$ & raw & 9943 & 6.39 & 53.88 & -0.06 \\
+ P1.4b $T{=}0.25$ & raw 50k & 48292 & 6.17 & 54.01 & -0.08 \\
  P1.4b $T{=}0.25$ & $t^2$ & 9828 & 6.27 & 53.87 & -0.06 \\
 \addlinespace[2pt]
  P1.4b $T{=}0.5$ & raw & 9056 & 4.56 & 29.33 & -0.11 \\
+ P1.4b $T{=}0.5$ & raw 50k & 35776 & 4.57 & 29.69 & -0.12 \\
  P1.4b $T{=}0.5$ & $t^2$ & 9596 & 4.68 & 29.33 & -0.09 \\
 \addlinespace[2pt]
  P1.4b $T{=}0.75$ & raw & 7386 & 4.27 & 21.61 & -0.12 \\